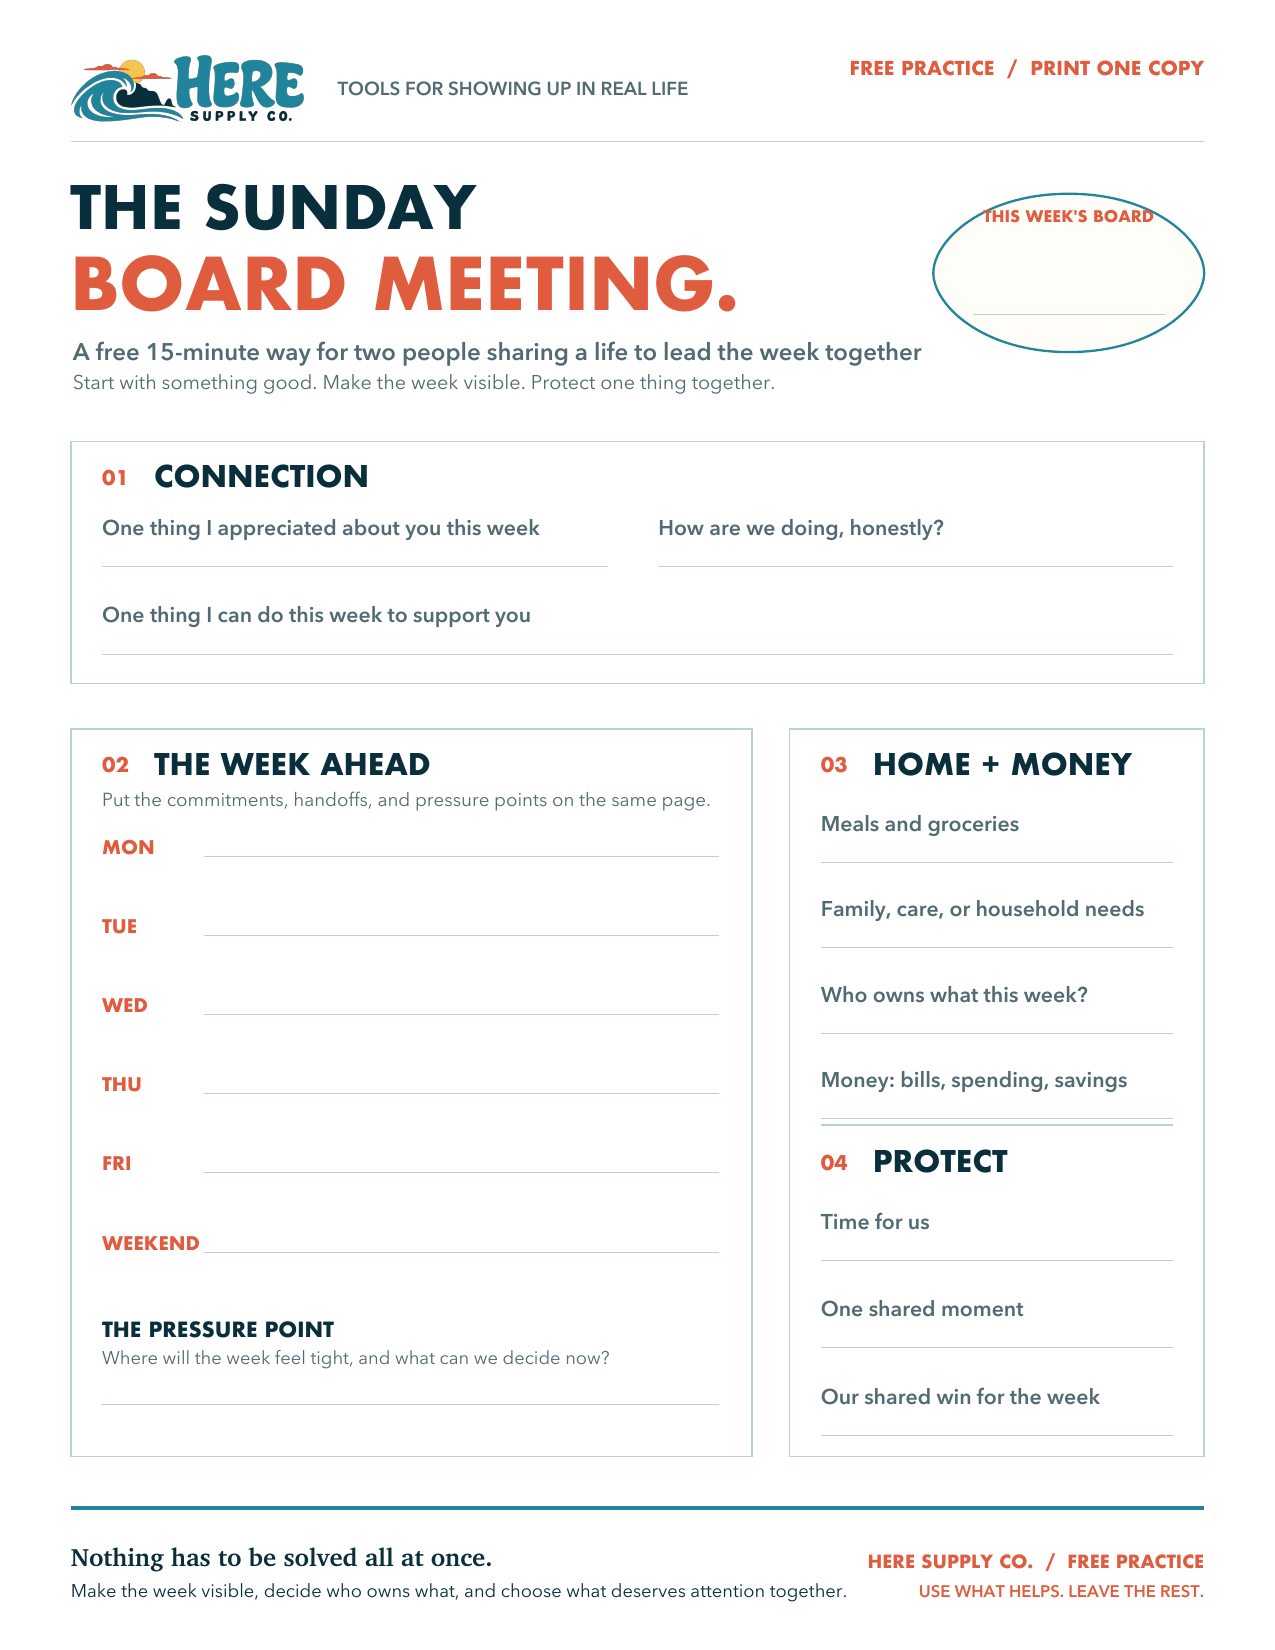
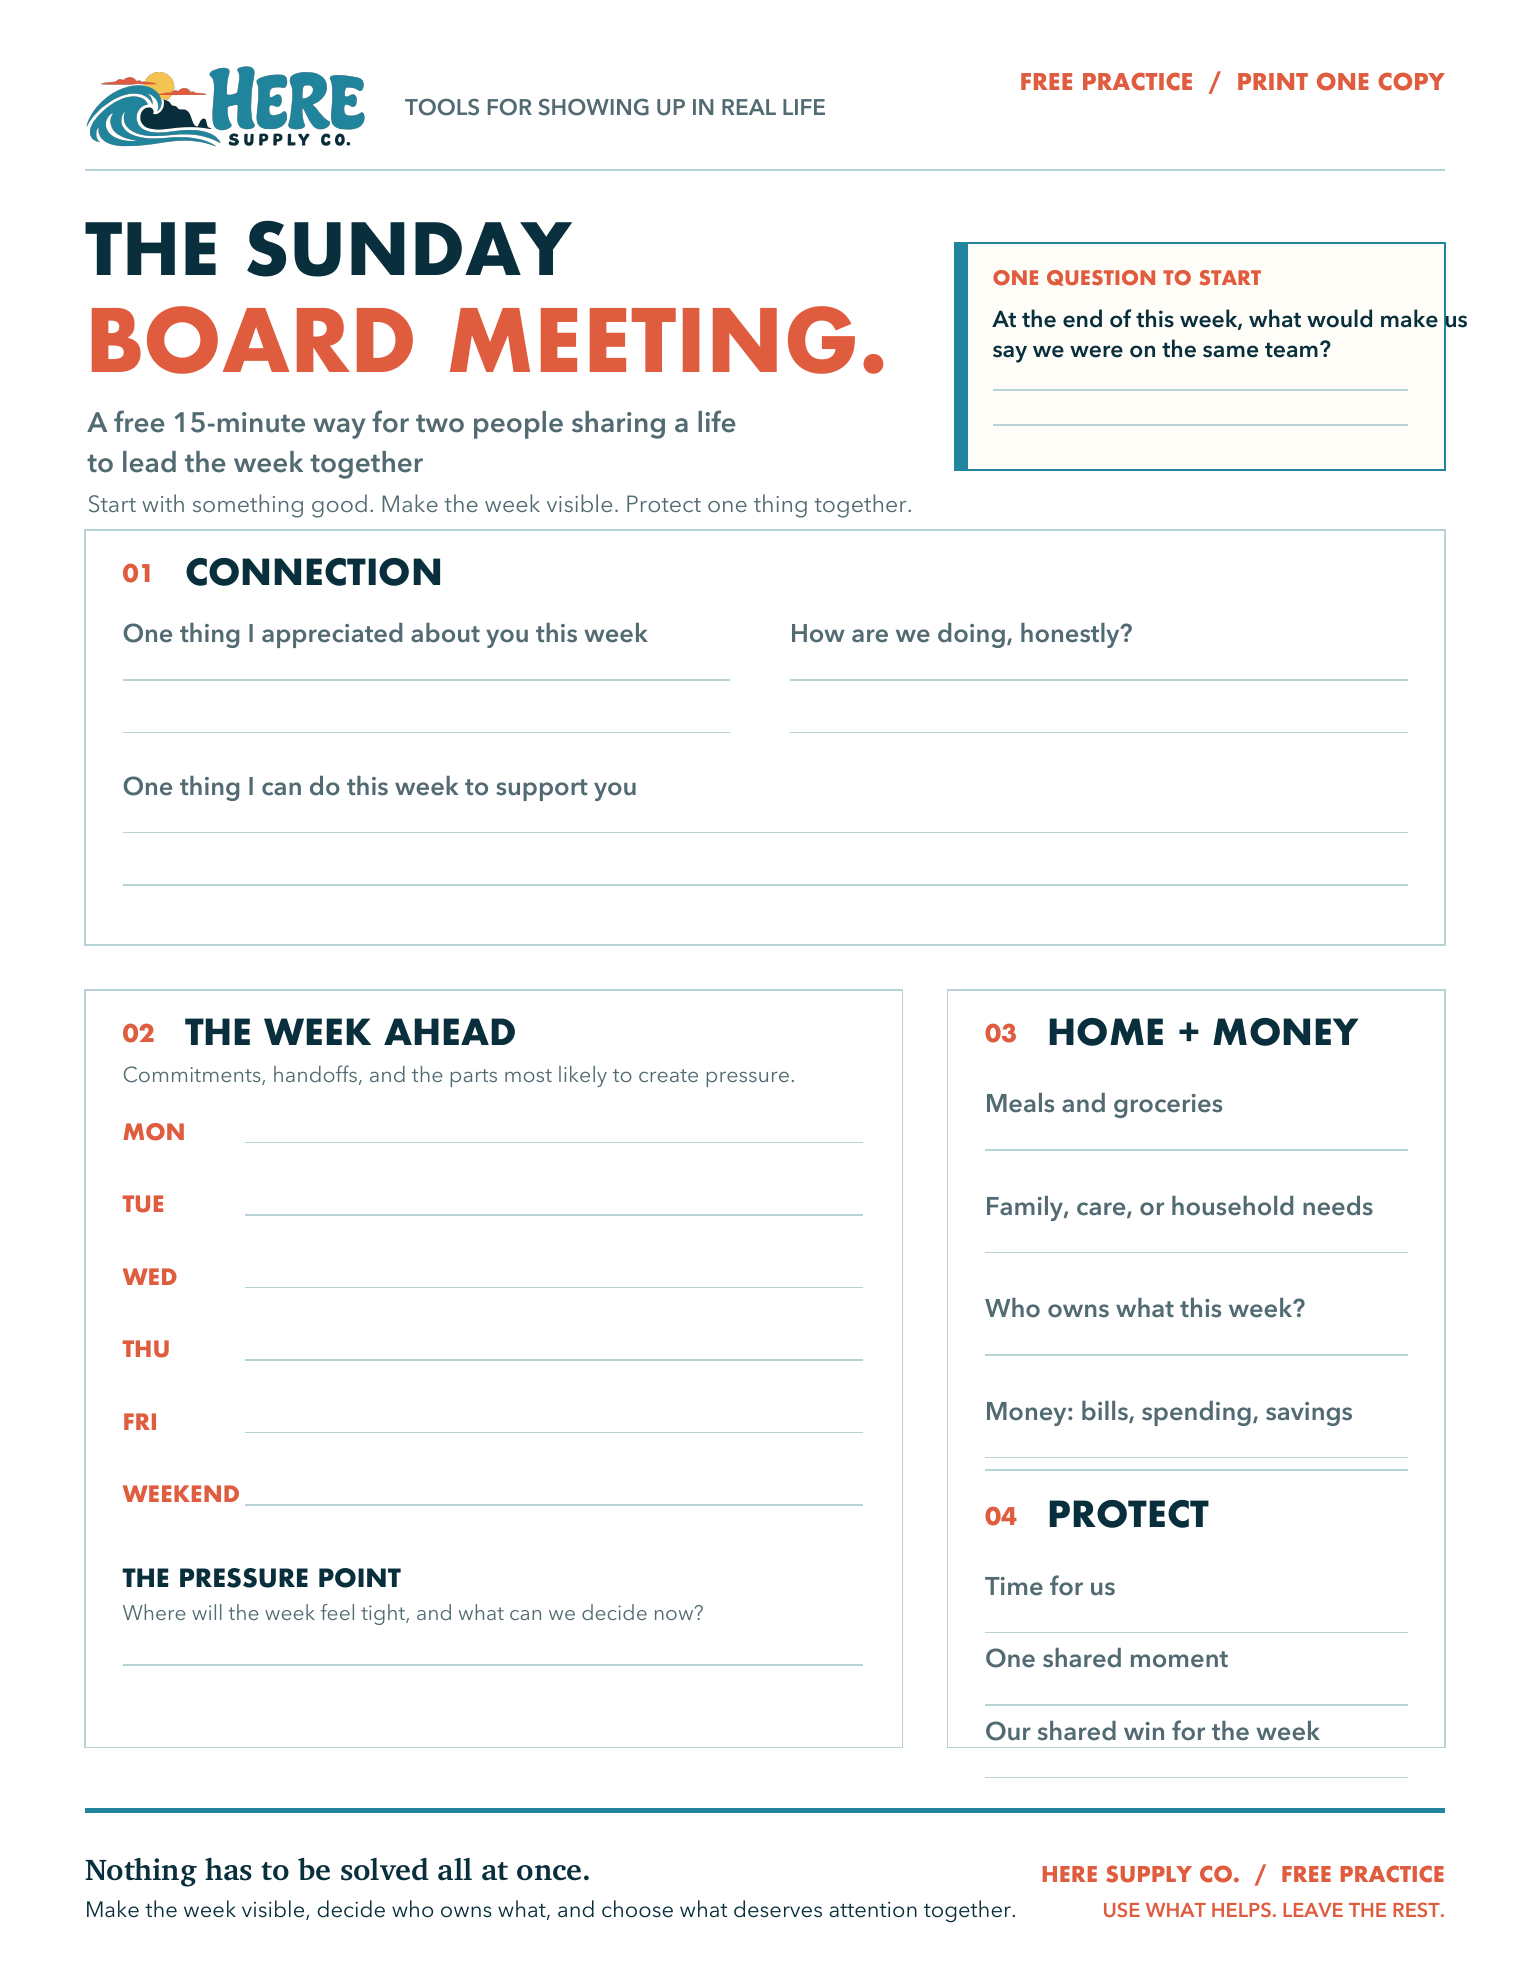
Make Sunday Board a practical shared tool

diff --git a/scripts/build-weekly-guide.py b/scripts/build-weekly-guide.py
@@ -75,26 +75,25 @@ def prompt(c: canvas.Canvas, label: str, x: float, y: float, width: float, lines
     return line_y
 
 
-def weekly_board(c: canvas.Canvas, x: float, y: float, width: float, height: float):
-    """A practical surfboard-shaped writing space: the board for this week."""
-    path = c.beginPath()
-    path.moveTo(x + width / 2, y + height)
-    path.curveTo(x + width * .82, y + height, x + width, y + height * .70, x + width, y + height / 2)
-    path.curveTo(x + width, y + height * .30, x + width * .82, y, x + width / 2, y)
-    path.curveTo(x + width * .18, y, x, y + height * .30, x, y + height / 2)
-    path.curveTo(x, y + height * .70, x + width * .18, y + height, x + width / 2, y + height)
-    c.saveState()
+def weekly_intention(c: canvas.Canvas, x: float, y: float, width: float, height: float):
+    """A useful opening question, not a decorative blank shape."""
     set_fill(c, LIGHT)
     set_stroke(c, OCEAN)
-    c.setLineWidth(1.1)
-    c.drawPath(path, stroke=1, fill=1)
+    c.setLineWidth(.8)
+    c.rect(x, y, width, height, stroke=1, fill=1)
+    set_fill(c, OCEAN)
+    c.rect(x, y, 5, height, stroke=0, fill=1)
     set_fill(c, TOBACCO)
-    c.setFont("FuturaBold", 7.5)
-    c.drawCentredString(x + width / 2, y + height - 14, "THIS WEEK'S BOARD")
+    c.setFont("FuturaBold", 7.8)
+    c.drawString(x + 15, y + height - 17, "ONE QUESTION TO START")
+    set_fill(c, INK)
+    c.setFont("AvenirDemi", 9.2)
+    c.drawString(x + 15, y + height - 34, "At the end of this week, what would make us")
+    c.drawString(x + 15, y + height - 46, "say we were on the same team?")
     set_stroke(c, RULE)
-    c.setLineWidth(.5)
-    c.line(x + 19, y + 18, x + width - 19, y + 18)
-    c.restoreState()
+    c.setLineWidth(.55)
+    c.line(x + 15, y + 18, x + width - 15, y + 18)
+    c.line(x + 15, y + 32, x + width - 15, y + 32)
 
 
 def build():
@@ -130,29 +129,29 @@ def build():
     c.setFont("FuturaBold", 34)
     c.drawString(34, 643, "BOARD MEETING.")
     set_fill(c, MUTED)
-    c.setFont("AvenirDemi", 11.5)
-    c.drawString(35, 619, "A free 15-minute way for two people sharing a life to lead the week together")
-    c.setFont("Avenir", 9.5)
-    c.drawString(35, 605, "Start with something good. Make the week visible. Protect one thing together.")
+    c.setFont("AvenirDemi", 11.2)
+    c.drawString(35, 619, "A free 15-minute way for two people sharing a life")
+    c.drawString(35, 603, "to lead the week together")
+    c.setFont("Avenir", 9.3)
+    c.drawString(35, 587, "Start with something good. Make the week visible. Protect one thing together.")
 
-    # The board is a useful writing space, with a quiet surfboard shape that earns its place.
-    weekly_board(c, 448, 623, 130, 76)
+    weekly_intention(c, 382, 604, 196, 91)
 
-    # Connection band.
+    # Connection gets the largest writing space because this is the meeting's point.
     set_stroke(c, RULE)
     c.setLineWidth(0.7)
-    c.rect(34, 464, 544, 116, stroke=1, fill=0)
+    c.rect(34, 414, 544, 166, stroke=1, fill=0)
     section_heading(c, "01", "Connection", 49, 558)
-    prompt(c, "One thing I appreciated about you this week", 49, 535, 243, 1)
-    prompt(c, "How are we doing, honestly?", 316, 535, 247, 1)
-    prompt(c, "One thing I can do this week to support you", 49, 493, 514, 1)
+    prompt(c, "One thing I appreciated about you this week", 49, 535, 243, 2)
+    prompt(c, "How are we doing, honestly?", 316, 535, 247, 2)
+    prompt(c, "One thing I can do this week to support you", 49, 474, 514, 2)
 
     # Lower grid.
     left_x = 34
     left_w = 327
     right_x = 379
     right_w = 199
-    top_y = 442
+    top_y = 396
     bottom_y = 93
 
     set_stroke(c, RULE)
@@ -160,18 +159,18 @@ def build():
     c.rect(left_x, bottom_y, left_w, top_y - bottom_y, stroke=1, fill=0)
     c.rect(right_x, bottom_y, right_w, top_y - bottom_y, stroke=1, fill=0)
 
-    section_heading(c, "02", "The Week Ahead", 49, 420)
+    section_heading(c, "02", "The Week Ahead", 49, 374)
     set_fill(c, MUTED)
-    c.setFont("Avenir", 9)
-    c.drawString(49, 405, "Put the commitments, handoffs, and pressure points on the same page.")
+    c.setFont("Avenir", 8.6)
+    c.drawString(49, 359, "Commitments, handoffs, and the parts most likely to create pressure.")
 
     day_rows = [
-        ("MON", 382),
-        ("TUE", 344),
-        ("WED", 306),
-        ("THU", 268),
-        ("FRI", 230),
-        ("WEEKEND", 192),
+        ("MON", 336),
+        ("TUE", 307),
+        ("WED", 278),
+        ("THU", 249),
+        ("FRI", 220),
+        ("WEEKEND", 191),
     ]
     for day, y in day_rows:
         set_fill(c, TOBACCO)
@@ -183,27 +182,27 @@ def build():
 
     set_fill(c, INK)
     c.setFont("FuturaBold", 9.8)
-    c.drawString(49, 150, "THE PRESSURE POINT")
+    c.drawString(49, 157, "THE PRESSURE POINT")
     set_fill(c, MUTED)
-    c.setFont("Avenir", 8.8)
-    c.drawString(49, 137, "Where will the week feel tight, and what can we decide now?")
+    c.setFont("Avenir", 8.4)
+    c.drawString(49, 144, "Where will the week feel tight, and what can we decide now?")
     set_stroke(c, RULE)
-    c.line(49, 118, 345, 118)
+    c.line(49, 126, 345, 126)
 
-    section_heading(c, "03", "Home + Money", 394, 420)
-    y = prompt(c, "Meals and groceries", 394, 393, 169, 1) - 5
+    section_heading(c, "03", "Home + Money", 394, 374)
+    y = prompt(c, "Meals and groceries", 394, 347, 169, 1) - 5
     y = prompt(c, "Family, care, or household needs", 394, y, 169, 1) - 5
     y = prompt(c, "Who owns what this week?", 394, y, 169, 1) - 5
     prompt(c, "Money: bills, spending, savings", 394, y, 169, 1)
 
     set_stroke(c, RULE)
     c.setLineWidth(0.7)
-    c.line(394, 252, 563, 252)
+    c.line(394, 204, 563, 204)
 
-    section_heading(c, "04", "Protect", 394, 229)
-    prompt(c, "Time for us", 394, 202, 169, 1)
-    prompt(c, "One shared moment", 394, 160, 169, 1)
-    prompt(c, "Our shared win for the week", 394, 118, 169, 1)
+    section_heading(c, "04", "Protect", 394, 181)
+    prompt(c, "Time for us", 394, 154, 169, 1)
+    prompt(c, "One shared moment", 394, 125, 169, 1)
+    prompt(c, "Our shared win for the week", 394, 96, 169, 1)
 
     # Footer.
     set_stroke(c, OCEAN)
